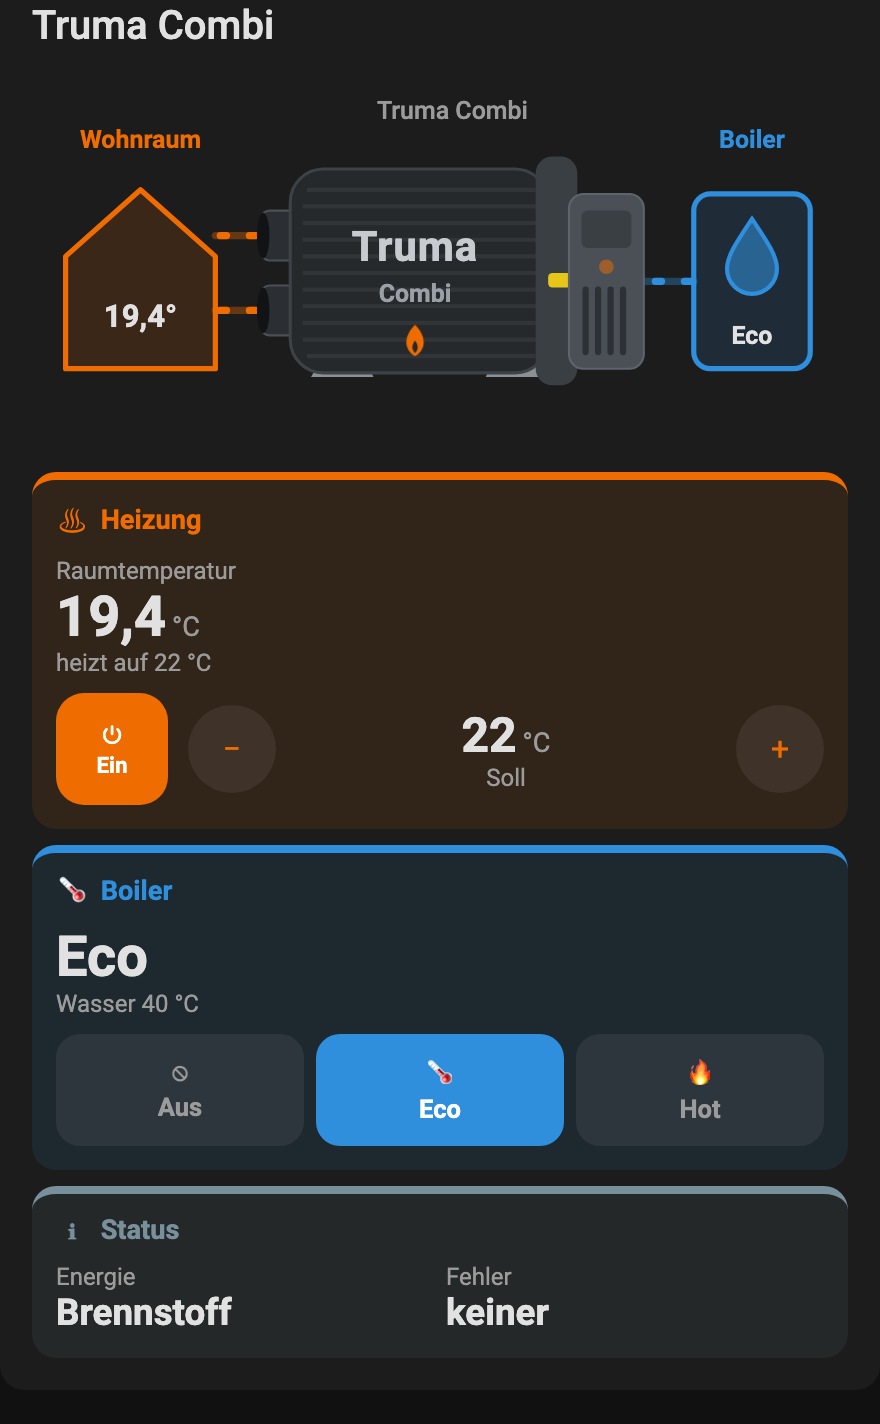
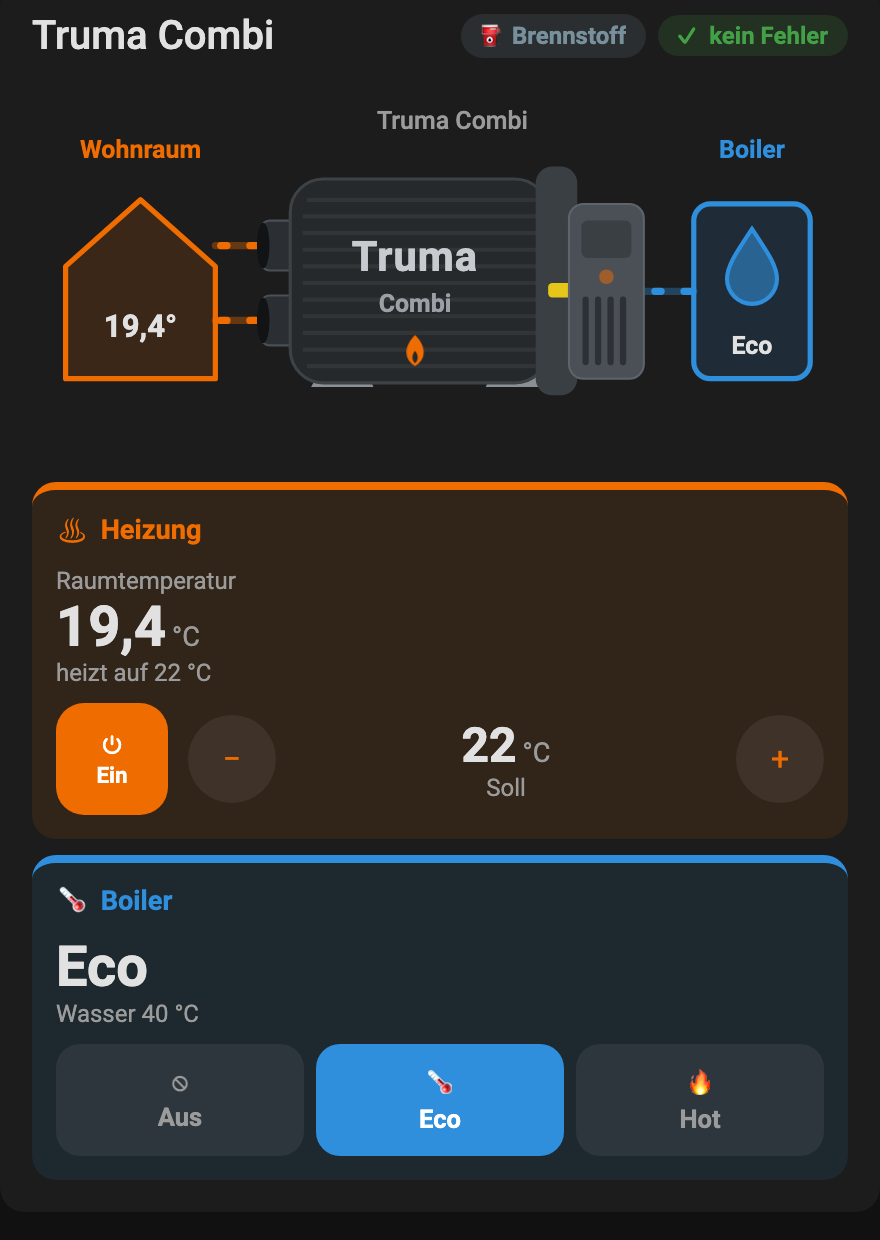
Energie und Fehler als Chips in der Titelzeile
Die Status-Gruppe entfällt; die Karte wird dadurch niedriger.

diff --git a/dist/truma-card.js b/dist/truma-card.js
@@ -26,14 +26,13 @@ const LABELS = {
     target: "Soll",
     heater: "Truma Combi",
     boiler: "Boiler",
-    status: "Status",
     energy_mix: "Energie",
     error: "Fehler",
     heats_to: "heizt auf",
     reached: "Soll erreicht",
     off: "Aus",
     on: "Ein",
-    no_error: "keiner",
+    no_error: "kein Fehler",
     unavailable: "nicht verfügbar",
     mode_off: "kein Warmwasser",
     mode_eco: "Wasser 40 °C",
@@ -50,14 +49,13 @@ const LABELS = {
     target: "Target",
     heater: "Truma Combi",
     boiler: "Boiler",
-    status: "Status",
     energy_mix: "Energy",
     error: "Error",
     heats_to: "heating to",
     reached: "target reached",
     off: "Off",
     on: "On",
-    no_error: "none",
+    no_error: "no error",
     unavailable: "unavailable",
     mode_off: "no hot water",
     mode_eco: "water 40 °C",
@@ -74,6 +72,12 @@ const BOILER_ICONS = {
   eco: "mdi:water-thermometer-outline",
   hot: "mdi:fire",
   on: "mdi:water-boiler",
+};
+
+const MIX_ICONS = {
+  fuel: "mdi:fuel",
+  electricity: "mdi:flash",
+  mix: "mdi:lightning-bolt-circle",
 };
 
 // Flache Darstellung: Wohnraum ← Warmluft ← Truma Combi → Warmwasser → Boiler
@@ -363,12 +367,20 @@ class TrumaCard extends HTMLElement {
         <div class="value"><span class="num">—</span><span class="unit"></span></div>
         <div class="sub"></div>
       </div>`;
+    const chip = (key) => `
+      <span class="chip" data-key="${key}" tabindex="0" role="button" title="${this._t(key)}">
+        <ha-icon></ha-icon><span class="chip-text">—</span>
+      </span>`;
     const diagram = DIAGRAM.replace(/\{(\w+)\}/g, (_, k) => escapeHtml(this._t(k)));
 
     this.shadowRoot.innerHTML = `
       <style>${STYLES}</style>
       <ha-card>
-        ${c.name ? `<div class="header">${escapeHtml(c.name)}</div>` : ""}
+        ${c.name || c.energy_mix || c.error ? `
+          <div class="header">
+            <span class="title">${escapeHtml(c.name || "")}</span>
+            ${chip("energy_mix")}${chip("error")}
+          </div>` : ""}
         ${c.show_diagram !== false ? diagram : ""}
         <div class="groups">
           <section class="group heat">
@@ -395,10 +407,6 @@ class TrumaCard extends HTMLElement {
               <div class="sub"></div>
             </div>
             <div class="modes"></div>
-          </section>
-          <section class="group device">
-            <div class="group-head"><ha-icon class="device-icon" icon="mdi:information-outline"></ha-icon>${this._t("status")}</div>
-            <div class="pair">${val("energy_mix", "energy_mix")}${val("error", "error")}</div>
           </section>
         </div>
       </ha-card>`;
@@ -427,6 +435,15 @@ class TrumaCard extends HTMLElement {
     const unitEl = el.querySelector(".unit");
     if (unitEl) unitEl.textContent = unavailable ? "" : unit;
     el.querySelector(".sub").textContent = unavailable ? this._t("unavailable") : sub;
+  }
+
+  _setChip(key, data, text, icon, level = "") {
+    const el = this.shadowRoot.querySelector(`.chip[data-key="${key}"]`);
+    if (!el) return;
+    el.classList.toggle("hidden", !data);
+    el.dataset.level = level;
+    el.querySelector("ha-icon").setAttribute("icon", icon);
+    el.querySelector(".chip-text").textContent = text;
   }
 
   _update() {
@@ -517,24 +534,20 @@ class TrumaCard extends HTMLElement {
       b.disabled = !mode || !!busy || active;
     });
 
-    // ---- Status
+    // ---- Status als Chips in der Titelzeile
     const mix = this._stateObj("energy_mix");
     const err = this._stateObj("error");
     const mixState = mix?.stateObj?.state;
-    this._setVal("energy_mix", mixState ? capitalize(this._t(mixState)) : "", {
-      unavailable: !mixState,
-      hidden: !mix,
-    });
+    this._setChip("energy_mix", mix, mixState ? capitalize(this._t(mixState)) : "—", MIX_ICONS[mixState] || "mdi:lightning-bolt");
     const errState = err?.stateObj?.state;
     const hasError = !!errState && !["none", "0", "ok", "no_error"].includes(errState.toLowerCase());
-    this._setVal("error", hasError ? errState : this._t("no_error"), {
-      unavailable: !errState,
-      hidden: !err,
-    });
-    const device = root.querySelector(".group.device");
-    device.classList.toggle("hidden", !mix && !err);
-    device.dataset.level = hasError ? "critical" : "ok";
-    root.querySelector(".device-icon").setAttribute("icon", hasError ? "mdi:alert-circle" : "mdi:information-outline");
+    this._setChip(
+      "error",
+      err,
+      !errState ? "—" : hasError ? errState : this._t("no_error"),
+      hasError ? "mdi:alert-circle" : "mdi:check-circle-outline",
+      hasError ? "critical" : "ok"
+    );
 
     // ---- Grafik
     const svg = root.querySelector(".diagram");
@@ -639,9 +652,23 @@ const STYLES = `
   .hidden { display: none !important; }
   button { font: inherit; color: inherit; }
   .header {
+    display: flex; align-items: center; gap: 6px;
     padding: 16px 16px 0; font-size: 1.25em; font-weight: 500;
     color: var(--primary-text-color);
   }
+  .title { flex: 1; min-width: 0; white-space: nowrap; overflow: hidden; text-overflow: ellipsis; }
+  .chip {
+    --c: var(--truma-device);
+    flex: none; display: inline-flex; align-items: center; gap: 4px; max-width: 45%;
+    padding: 3px 10px 3px 7px; border-radius: 999px; cursor: pointer;
+    font-size: 0.6em; font-weight: 600; white-space: nowrap;
+    background: color-mix(in srgb, var(--c) 16%, transparent); color: var(--c);
+  }
+  .chip ha-icon { --mdc-icon-size: 16px; flex: none; }
+  .chip-text { overflow: hidden; text-overflow: ellipsis; }
+  .chip[data-level="ok"] { --c: var(--truma-ok); }
+  .chip[data-level="critical"] { --c: var(--truma-crit); }
+  .chip:focus-visible { outline: 2px solid var(--primary-color); outline-offset: 2px; }
 
   /* ---- Grafik ---- */
   .diagram { display: block; width: 100%; max-width: 440px; margin: 8px auto 0; padding: 0 12px; box-sizing: border-box; }
@@ -724,8 +751,6 @@ const STYLES = `
   }
   .group.water { --c: var(--truma-water); }
   .group.water[data-mode="hot"] { --c: var(--truma-hot); }
-  .group.device { --c: var(--truma-device); grid-column: 1 / -1; }
-  .group.device[data-level="critical"] { --c: var(--truma-crit); }
   .group.heat[data-state="off"] .val.primary .num,
   .group.water[data-mode="off"] .val.primary .num { color: var(--secondary-text-color); }
   .group-head {
@@ -734,7 +759,6 @@ const STYLES = `
     white-space: nowrap; overflow: hidden; text-overflow: ellipsis;
   }
   .group-head ha-icon { --mdc-icon-size: 20px; flex: none; }
-  .pair { display: grid; grid-template-columns: 1fr 1fr; gap: 6px; }
   .val { cursor: pointer; min-width: 0; border-radius: 6px; }
   .val:focus-visible { outline: 2px solid var(--primary-color); outline-offset: 2px; }
   .label { font-size: 0.75em; color: var(--secondary-text-color); white-space: nowrap; overflow: hidden; text-overflow: ellipsis; }
@@ -745,7 +769,6 @@ const STYLES = `
   .val.unavailable .num { color: var(--disabled-text-color, #999); }
   .sub { font-size: 0.75em; color: var(--secondary-text-color); white-space: nowrap; overflow: hidden; text-overflow: ellipsis; }
   .sub:empty { display: none; }
-  .group.device[data-level="critical"] .val[data-key="error"] .num { color: var(--c); }
 
   /* ---- Bedienung ---- */
   .ctrl { display: flex; align-items: center; gap: 10px; margin-top: auto; }

diff --git a/src/truma-card.js b/src/truma-card.js
@@ -26,14 +26,13 @@ const LABELS = {
     target: "Soll",
     heater: "Truma Combi",
     boiler: "Boiler",
-    status: "Status",
     energy_mix: "Energie",
     error: "Fehler",
     heats_to: "heizt auf",
     reached: "Soll erreicht",
     off: "Aus",
     on: "Ein",
-    no_error: "keiner",
+    no_error: "kein Fehler",
     unavailable: "nicht verfügbar",
     mode_off: "kein Warmwasser",
     mode_eco: "Wasser 40 °C",
@@ -50,14 +49,13 @@ const LABELS = {
     target: "Target",
     heater: "Truma Combi",
     boiler: "Boiler",
-    status: "Status",
     energy_mix: "Energy",
     error: "Error",
     heats_to: "heating to",
     reached: "target reached",
     off: "Off",
     on: "On",
-    no_error: "none",
+    no_error: "no error",
     unavailable: "unavailable",
     mode_off: "no hot water",
     mode_eco: "water 40 °C",
@@ -74,6 +72,12 @@ const BOILER_ICONS = {
   eco: "mdi:water-thermometer-outline",
   hot: "mdi:fire",
   on: "mdi:water-boiler",
+};
+
+const MIX_ICONS = {
+  fuel: "mdi:fuel",
+  electricity: "mdi:flash",
+  mix: "mdi:lightning-bolt-circle",
 };
 
 // Flache Darstellung: Wohnraum ← Warmluft ← Truma Combi → Warmwasser → Boiler
@@ -363,12 +367,20 @@ class TrumaCard extends HTMLElement {
         <div class="value"><span class="num">—</span><span class="unit"></span></div>
         <div class="sub"></div>
       </div>`;
+    const chip = (key) => `
+      <span class="chip" data-key="${key}" tabindex="0" role="button" title="${this._t(key)}">
+        <ha-icon></ha-icon><span class="chip-text">—</span>
+      </span>`;
     const diagram = DIAGRAM.replace(/\{(\w+)\}/g, (_, k) => escapeHtml(this._t(k)));
 
     this.shadowRoot.innerHTML = `
       <style>${STYLES}</style>
       <ha-card>
-        ${c.name ? `<div class="header">${escapeHtml(c.name)}</div>` : ""}
+        ${c.name || c.energy_mix || c.error ? `
+          <div class="header">
+            <span class="title">${escapeHtml(c.name || "")}</span>
+            ${chip("energy_mix")}${chip("error")}
+          </div>` : ""}
         ${c.show_diagram !== false ? diagram : ""}
         <div class="groups">
           <section class="group heat">
@@ -395,10 +407,6 @@ class TrumaCard extends HTMLElement {
               <div class="sub"></div>
             </div>
             <div class="modes"></div>
-          </section>
-          <section class="group device">
-            <div class="group-head"><ha-icon class="device-icon" icon="mdi:information-outline"></ha-icon>${this._t("status")}</div>
-            <div class="pair">${val("energy_mix", "energy_mix")}${val("error", "error")}</div>
           </section>
         </div>
       </ha-card>`;
@@ -427,6 +435,15 @@ class TrumaCard extends HTMLElement {
     const unitEl = el.querySelector(".unit");
     if (unitEl) unitEl.textContent = unavailable ? "" : unit;
     el.querySelector(".sub").textContent = unavailable ? this._t("unavailable") : sub;
+  }
+
+  _setChip(key, data, text, icon, level = "") {
+    const el = this.shadowRoot.querySelector(`.chip[data-key="${key}"]`);
+    if (!el) return;
+    el.classList.toggle("hidden", !data);
+    el.dataset.level = level;
+    el.querySelector("ha-icon").setAttribute("icon", icon);
+    el.querySelector(".chip-text").textContent = text;
   }
 
   _update() {
@@ -517,24 +534,20 @@ class TrumaCard extends HTMLElement {
       b.disabled = !mode || !!busy || active;
     });
 
-    // ---- Status
+    // ---- Status als Chips in der Titelzeile
     const mix = this._stateObj("energy_mix");
     const err = this._stateObj("error");
     const mixState = mix?.stateObj?.state;
-    this._setVal("energy_mix", mixState ? capitalize(this._t(mixState)) : "", {
-      unavailable: !mixState,
-      hidden: !mix,
-    });
+    this._setChip("energy_mix", mix, mixState ? capitalize(this._t(mixState)) : "—", MIX_ICONS[mixState] || "mdi:lightning-bolt");
     const errState = err?.stateObj?.state;
     const hasError = !!errState && !["none", "0", "ok", "no_error"].includes(errState.toLowerCase());
-    this._setVal("error", hasError ? errState : this._t("no_error"), {
-      unavailable: !errState,
-      hidden: !err,
-    });
-    const device = root.querySelector(".group.device");
-    device.classList.toggle("hidden", !mix && !err);
-    device.dataset.level = hasError ? "critical" : "ok";
-    root.querySelector(".device-icon").setAttribute("icon", hasError ? "mdi:alert-circle" : "mdi:information-outline");
+    this._setChip(
+      "error",
+      err,
+      !errState ? "—" : hasError ? errState : this._t("no_error"),
+      hasError ? "mdi:alert-circle" : "mdi:check-circle-outline",
+      hasError ? "critical" : "ok"
+    );
 
     // ---- Grafik
     const svg = root.querySelector(".diagram");
@@ -639,9 +652,23 @@ const STYLES = `
   .hidden { display: none !important; }
   button { font: inherit; color: inherit; }
   .header {
+    display: flex; align-items: center; gap: 6px;
     padding: 16px 16px 0; font-size: 1.25em; font-weight: 500;
     color: var(--primary-text-color);
   }
+  .title { flex: 1; min-width: 0; white-space: nowrap; overflow: hidden; text-overflow: ellipsis; }
+  .chip {
+    --c: var(--truma-device);
+    flex: none; display: inline-flex; align-items: center; gap: 4px; max-width: 45%;
+    padding: 3px 10px 3px 7px; border-radius: 999px; cursor: pointer;
+    font-size: 0.6em; font-weight: 600; white-space: nowrap;
+    background: color-mix(in srgb, var(--c) 16%, transparent); color: var(--c);
+  }
+  .chip ha-icon { --mdc-icon-size: 16px; flex: none; }
+  .chip-text { overflow: hidden; text-overflow: ellipsis; }
+  .chip[data-level="ok"] { --c: var(--truma-ok); }
+  .chip[data-level="critical"] { --c: var(--truma-crit); }
+  .chip:focus-visible { outline: 2px solid var(--primary-color); outline-offset: 2px; }
 
   /* ---- Grafik ---- */
   .diagram { display: block; width: 100%; max-width: 440px; margin: 8px auto 0; padding: 0 12px; box-sizing: border-box; }
@@ -724,8 +751,6 @@ const STYLES = `
   }
   .group.water { --c: var(--truma-water); }
   .group.water[data-mode="hot"] { --c: var(--truma-hot); }
-  .group.device { --c: var(--truma-device); grid-column: 1 / -1; }
-  .group.device[data-level="critical"] { --c: var(--truma-crit); }
   .group.heat[data-state="off"] .val.primary .num,
   .group.water[data-mode="off"] .val.primary .num { color: var(--secondary-text-color); }
   .group-head {
@@ -734,7 +759,6 @@ const STYLES = `
     white-space: nowrap; overflow: hidden; text-overflow: ellipsis;
   }
   .group-head ha-icon { --mdc-icon-size: 20px; flex: none; }
-  .pair { display: grid; grid-template-columns: 1fr 1fr; gap: 6px; }
   .val { cursor: pointer; min-width: 0; border-radius: 6px; }
   .val:focus-visible { outline: 2px solid var(--primary-color); outline-offset: 2px; }
   .label { font-size: 0.75em; color: var(--secondary-text-color); white-space: nowrap; overflow: hidden; text-overflow: ellipsis; }
@@ -745,7 +769,6 @@ const STYLES = `
   .val.unavailable .num { color: var(--disabled-text-color, #999); }
   .sub { font-size: 0.75em; color: var(--secondary-text-color); white-space: nowrap; overflow: hidden; text-overflow: ellipsis; }
   .sub:empty { display: none; }
-  .group.device[data-level="critical"] .val[data-key="error"] .num { color: var(--c); }
 
   /* ---- Bedienung ---- */
   .ctrl { display: flex; align-items: center; gap: 10px; margin-top: auto; }

diff --git a/demo/index.html b/demo/index.html
@@ -49,7 +49,8 @@
     const ICONS = {
       "mdi:radiator": "♨", "mdi:radiator-off": "♨", "mdi:power": "⏻", "mdi:minus": "−", "mdi:plus": "+",
       "mdi:water-boiler": "🛢", "mdi:water-boiler-alert": "⚠", "mdi:water-off-outline": "⦸",
-      "mdi:water-thermometer-outline": "🌡", "mdi:fire": "🔥", "mdi:information-outline": "ℹ", "mdi:alert-circle": "⚠",
+      "mdi:water-thermometer-outline": "🌡", "mdi:fire": "🔥", "mdi:fuel": "⛽", "mdi:flash": "⚡", "mdi:lightning-bolt-circle": "⚡", "mdi:lightning-bolt": "⚡",
+      "mdi:check-circle-outline": "✓", "mdi:alert-circle": "⚠",
     };
     customElements.define("ha-icon", class extends HTMLElement {
       static get observedAttributes() { return ["icon"]; }

diff --git a/README.md b/README.md
@@ -17,7 +17,9 @@ farbigen Gruppen, passend zur Grafik:
 
 - **Orange – Heizung:** Raumtemperatur, Ein/Aus, Soll-Temperatur mit − / +
 - **Blau – Boiler:** aktueller Modus und Auswahl Aus / Eco / Hot (Hot rot)
-- **Grau – Status:** Energiemix und Fehler (rot, sobald ein Fehler anliegt)
+
+Rechts neben dem Titel zeigen zwei kleine Chips den Energiemix und den
+Fehlerstatus (grün „kein Fehler“, rot mit Fehlercode, sobald ein Fehler anliegt).
 
 ![Vorschau](images/preview.png)
 
@@ -55,11 +57,11 @@ error: sensor.truma_combi_d_4_error
 
 | Option | Typ | Standard | Beschreibung |
 |---|---|---|---|
-| `name` | string | `Truma Combi` | Titel; leer = kein Kopfbereich |
+| `name` | string | `Truma Combi` | Titel; leer und ohne Chips = kein Kopfbereich |
 | `climate` | entity | – | Thermostat der Heizung (`climate.*`) mit `current_temperature` |
 | `boiler` | entity | – | Auswahl-Entität (`select.*`) mit den Optionen des Boilers, z. B. `Aus`, `Eco`, `Hot` |
-| `energy_mix` | entity | – | Energiemix (`fuel` / `electricity` / `mix`), nur Anzeige |
-| `error` | entity | – | Fehlercode; `none` gilt als „kein Fehler“ |
+| `energy_mix` | entity | – | Energiemix (`fuel` / `electricity` / `mix`), Chip in der Titelzeile |
+| `error` | entity | – | Fehlercode als Chip in der Titelzeile; `none` gilt als „kein Fehler“ |
 | `default_temperature` | number | `20` | Soll-Temperatur beim ersten Einschalten |
 | `max_delta` | number | `10` | Differenz Soll–Ist, bei der die Warmluft-Animation am schnellsten läuft |
 | `show_diagram` | boolean | `true` | Grafik anzeigen |
